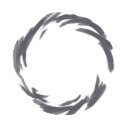
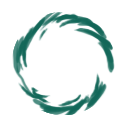
Energy Orb and Card Outlines

Changed region(s): [[0.0938, 0.0938, 0.9062, 0.5938], [0.1562, 0.5625, 0.8438, 0.9062]]

diff --git a/src/main/java/thenoble/cards/NobleCard.java b/src/main/java/thenoble/cards/NobleCard.java
@@ -123,6 +123,7 @@ public abstract class NobleCard extends CustomCard {
     this.damageUpgrade = 0;
     this.blockUpgrade = 0;
     this.magicUpgrade = 0;
+    this.glowColor = Color.MAGENTA;
   }
 
   private static String getName(String ID) {
